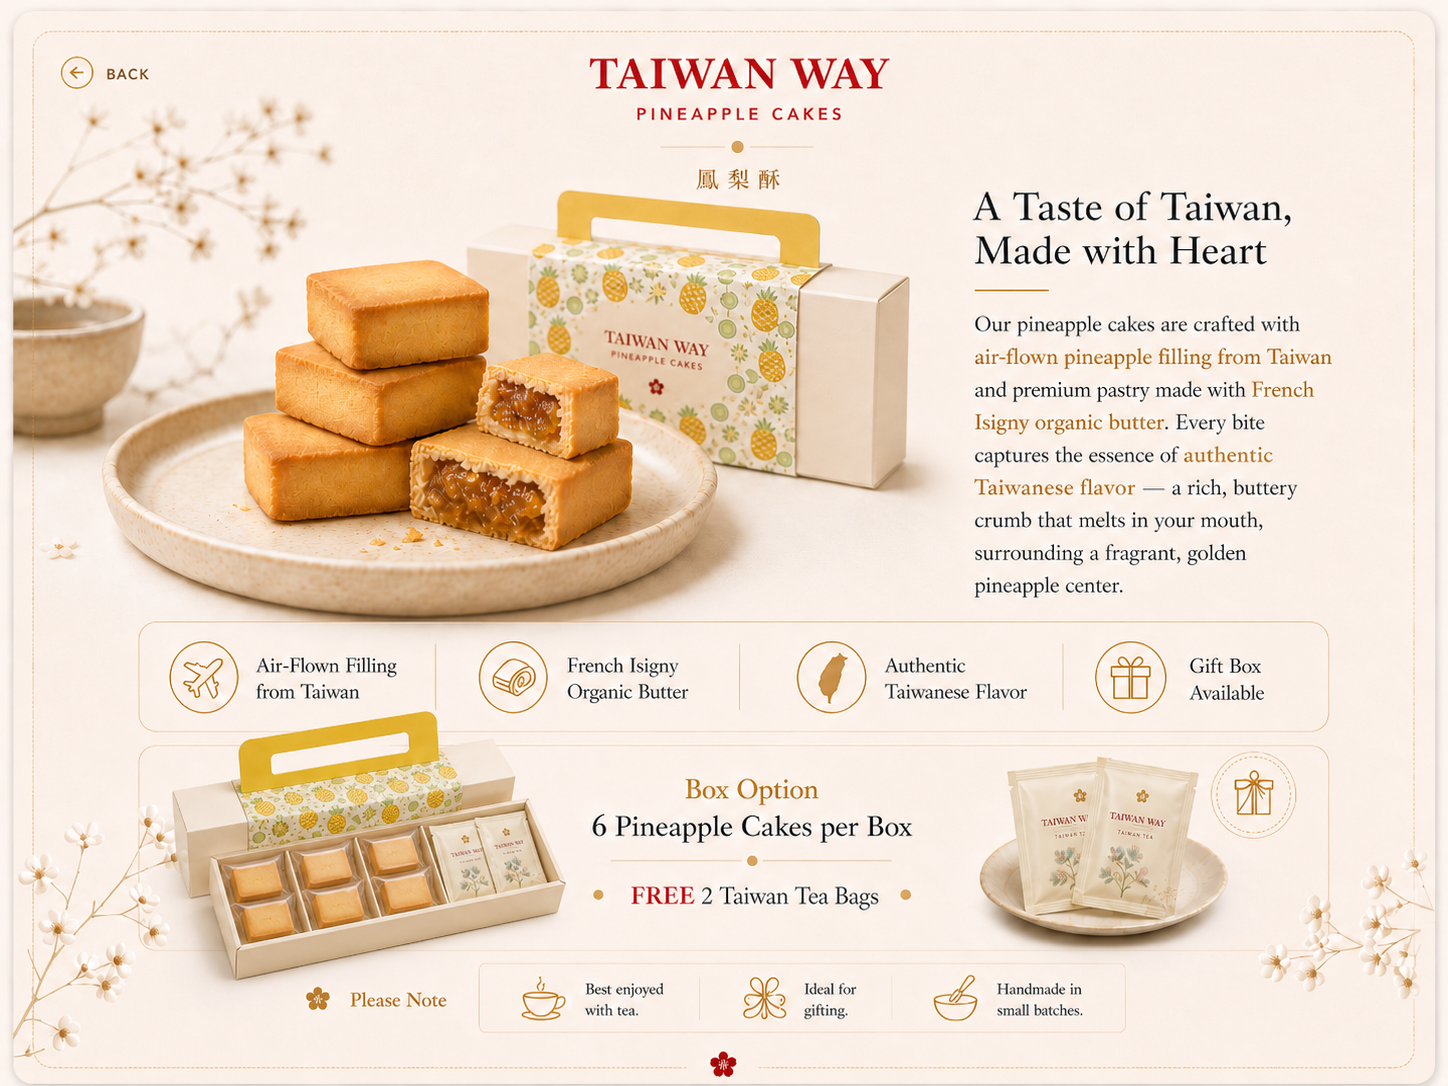
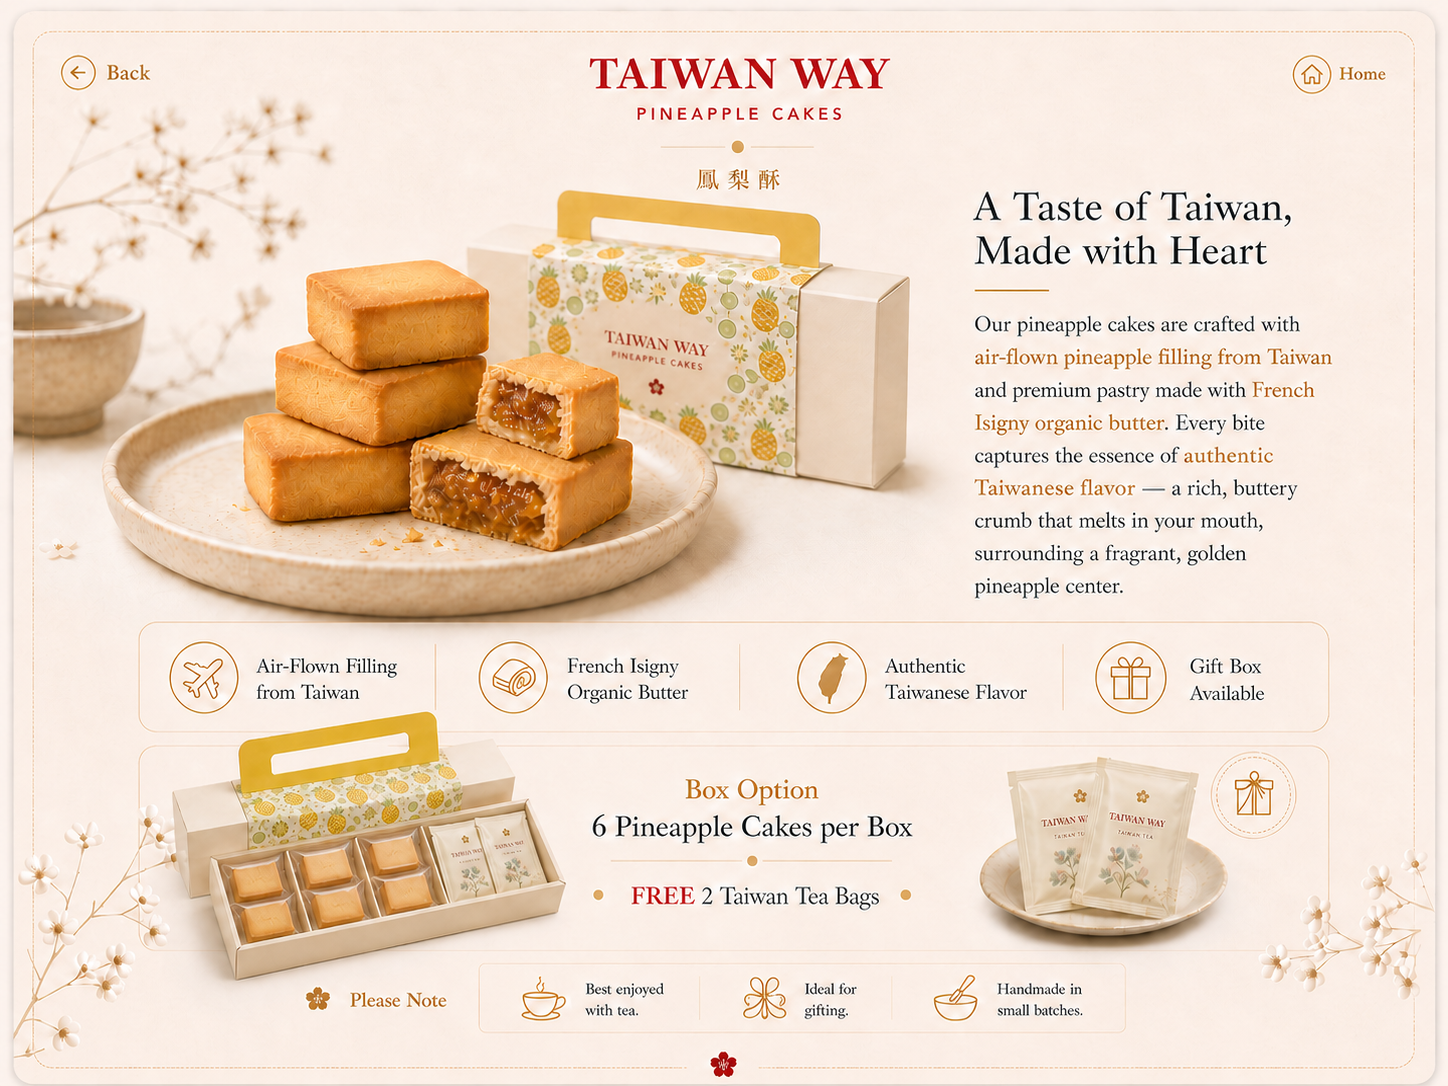
redesign: 改為 4 卡 Hub 架構，新增多個分類與子頁，加入滑動支援
- 首頁改為 Explore Taiwan Way Hub（4 卡：Desserts/Tea & Drinks/Custom Cake/Taiwanese Favorites）
- 新增 Taiwanese Favorites 分類頁 + 4 道菜（滷肉飯/牛肉麵/櫻花蝦油飯/雞肉飯）
- 新增 Tea & Drinks 分類頁 + Bubble Tea 子頁（4 款珍奶）
- Review/Follow 拆成兩頁，分別連 Google Review QR 與 IG QR
- 新版子頁加入 Back/Home 按鈕（圖內已內嵌，HTML 加透明 tap zone）
- 底部 bar 改為 Leave a review / Ask at counter / Follow us
- 加入滑動功能：輪播左右滑切換、同分類內子頁循環滑動

diff --git a/index.html b/index.html
@@ -5,7 +5,7 @@
 <meta name="viewport" content="width=device-width, initial-scale=1.0, maximum-scale=1.0, user-scalable=no">
 <meta name="apple-mobile-web-app-capable" content="yes">
 <meta name="apple-mobile-web-app-status-bar-style" content="black-translucent">
-<title>Taiwan Way Dessert iPad</title>
+<title>Taiwan Way Cafe iPad</title>
 <style>
   * { margin: 0; padding: 0; box-sizing: border-box; }
 
@@ -78,47 +78,36 @@
     transform: scale(0.985);
   }
 
-  #btn-pineapple {
-    left: 4.0%;
-    top: 43.5%;
-    width: 24.6%;
-    height: 18.0%;
-  }
+  /* === Home page tap zones (新ipad 首頁.png) === */
+  #btn-home-desserts        { left: 3.5%;  top: 42.0%; width: 24.0%; height: 17.5%; }
+  #btn-home-tea-drinks      { left: 28.5%; top: 42.0%; width: 24.0%; height: 17.5%; }
+  #btn-home-custom-cake     { left: 3.5%;  top: 60.5%; width: 24.0%; height: 17.5%; }
+  #btn-home-taiwanese-favs  { left: 28.5%; top: 60.5%; width: 24.0%; height: 17.5%; }
+  #btn-home-review          { left: 2.5%;  top: 90.5%; width: 27.0%; height: 7.5%; }
+  #btn-home-follow          { left: 70.0%; top: 90.5%; width: 27.5%; height: 7.5%; }
 
-  #btn-tea {
-    left: 29.4%;
-    top: 43.5%;
-    width: 23.0%;
-    height: 18.0%;
-  }
+  /* === Common: Top-left Back / Top-right Home pill buttons (baked in image) === */
+  .btn-page-back { left: 1.5%; top: 2.5%; width: 12.5%; height: 6.5%; }
+  .btn-page-home { left: 86.0%; top: 2.5%; width: 12.5%; height: 6.5%; }
 
-  #btn-custom-cake {
-    left: 4.0%;
-    top: 62.7%;
-    width: 24.6%;
-    height: 18.5%;
-  }
+  /* === Review / Follow page: Back to Menu pill (bottom center) === */
+  .btn-back-to-menu { left: 28.0%; top: 87.0%; width: 44.0%; height: 11.0%; }
 
-  #btn-review {
-    left: 29.4%;
-    top: 62.7%;
-    width: 23.0%;
-    height: 18.5%;
-  }
+  /* === Taiwanese Favorites category tap zones === */
+  #btn-tf-braised-pork  { left: 3.5%;  top: 38.0%; width: 28.0%; height: 19.5%; }
+  #btn-tf-beef-noodle   { left: 33.0%; top: 38.0%; width: 28.0%; height: 19.5%; }
+  #btn-tf-sakura        { left: 3.5%;  top: 60.0%; width: 28.0%; height: 19.5%; }
+  #btn-tf-chicken       { left: 33.0%; top: 60.0%; width: 28.0%; height: 19.5%; }
+  #btn-tf-review        { left: 2.5%;  top: 90.5%; width: 27.0%; height: 7.5%; }
+  #btn-tf-follow        { left: 70.0%; top: 90.5%; width: 27.5%; height: 7.5%; }
 
-  #btn-cake-flavors-inline {
-    left: 6.5%;
-    top: 85.1%;
-    width: 23.8%;
-    height: 6.2%;
-  }
+  /* === Tea & Drinks category tap zones === */
+  #btn-td-bubble-tea { left: 3.5%;  top: 56.0%; width: 28.0%; height: 26.0%; }
+  #btn-td-hot-tea    { left: 33.0%; top: 56.0%; width: 28.0%; height: 26.0%; }
 
-  #btn-cake-order-inline {
-    left: 32.6%;
-    top: 85.1%;
-    width: 18.8%;
-    height: 6.2%;
-  }
+  /* === Custom Cake inline tap zones (existing) === */
+  #btn-cake-flavors-inline { left: 6.5%;  top: 85.1%; width: 23.8%; height: 6.2%; }
+  #btn-cake-order-inline   { left: 32.6%; top: 85.1%; width: 18.8%; height: 6.2%; }
 
   .back-btn {
     position: absolute;
@@ -222,32 +211,61 @@
 </head>
 <body>
 
+<!-- Home: Explore Taiwan Way Hub -->
 <div class="page active" id="page-home">
   <div class="stage">
-    <img src="dessert 首頁.png?v=20260504-review" alt="Taiwan Way Dessert Welcome">
-    <button class="tap-zone" id="btn-pineapple" onclick="goTo('page-pineapple')" aria-label="Handmade Pineapple Cake"></button>
-    <button class="tap-zone" id="btn-tea" onclick="goTo('page-tea')" aria-label="Taiwan High Mountain Tea"></button>
-    <button class="tap-zone" id="btn-custom-cake" onclick="goTo('page-custom-cake')" aria-label="Custom Cake"></button>
-    <button class="tap-zone" id="btn-review" onclick="goTo('page-review')" aria-label="Review and Follow Us"></button>
+    <img src="新ipad 首頁.png?v=20260511-v2" alt="Explore Taiwan Way">
+    <button class="tap-zone" id="btn-home-desserts" onclick="goTo('page-pineapple')" aria-label="Desserts and Pineapple Cake"></button>
+    <button class="tap-zone" id="btn-home-tea-drinks" onclick="goTo('page-tea-drinks')" aria-label="Tea and Drinks"></button>
+    <button class="tap-zone" id="btn-home-custom-cake" onclick="goTo('page-custom-cake')" aria-label="Custom Cake"></button>
+    <button class="tap-zone" id="btn-home-taiwanese-favs" onclick="goTo('page-taiwanese-favorites')" aria-label="Taiwanese Favorites"></button>
+    <button class="tap-zone" id="btn-home-review" onclick="goTo('page-review')" aria-label="Leave a review"></button>
+    <button class="tap-zone" id="btn-home-follow" onclick="goTo('page-follow')" aria-label="Follow us"></button>
   </div>
 </div>
 
+<!-- Desserts: direct to Pineapple Cake (new style with Back/Home) -->
 <div class="page" id="page-pineapple">
   <div class="stage">
-    <img src="鳳梨酥內頁.png?v=20260504-dessert" alt="Handmade Pineapple Cake">
-    <button class="back-btn" onclick="goTo('page-home')">←</button>
+    <img src="鳳梨酥內頁.png?v=20260511-v2" alt="Handmade Pineapple Cake">
+    <button class="tap-zone btn-page-back" onclick="goTo('page-home')" aria-label="Back"></button>
+    <button class="tap-zone btn-page-home" onclick="goTo('page-home')" aria-label="Home"></button>
     <div class="countdown-bar" id="bar-pineapple"></div>
   </div>
 </div>
 
-<div class="page" id="page-tea">
+<!-- Tea & Drinks category (new style with Back/Home) -->
+<div class="page" id="page-tea-drinks">
   <div class="stage">
-    <img src="高山烏龍內頁.png?v=20260504-dessert" alt="Taiwan High Mountain Tea">
-    <button class="back-btn" onclick="goTo('page-home')">←</button>
-    <div class="countdown-bar" id="bar-tea"></div>
+    <img src="tea drinks.png?v=20260511-v2" alt="Tea and Drinks">
+    <button class="tap-zone" id="btn-td-bubble-tea" onclick="goTo('page-bubble-tea')" aria-label="Bubble Tea"></button>
+    <button class="tap-zone" id="btn-td-hot-tea" onclick="goTo('page-hot-tea')" aria-label="Hot Tea"></button>
+    <button class="tap-zone btn-page-back" onclick="goTo('page-home')" aria-label="Back"></button>
+    <button class="tap-zone btn-page-home" onclick="goTo('page-home')" aria-label="Home"></button>
+    <div class="countdown-bar" id="bar-tea-drinks"></div>
   </div>
 </div>
 
+<!-- Bubble Tea detail (new style with Back/Home) -->
+<div class="page" id="page-bubble-tea">
+  <div class="stage">
+    <img src="珍奶內頁.png?v=20260511-v2" alt="Bubble Tea Varieties">
+    <button class="tap-zone btn-page-back" onclick="goTo('page-tea-drinks')" aria-label="Back"></button>
+    <button class="tap-zone btn-page-home" onclick="goTo('page-home')" aria-label="Home"></button>
+    <div class="countdown-bar" id="bar-bubble-tea"></div>
+  </div>
+</div>
+
+<!-- Hot Tea detail (old style — keep circular back) -->
+<div class="page" id="page-hot-tea">
+  <div class="stage">
+    <img src="高山烏龍內頁.png?v=20260504-dessert" alt="Taiwan High Mountain Tea">
+    <button class="back-btn" onclick="goTo('page-tea-drinks')">←</button>
+    <div class="countdown-bar" id="bar-hot-tea"></div>
+  </div>
+</div>
+
+<!-- Custom Cake hub (old style) -->
 <div class="page" id="page-custom-cake">
   <div class="stage">
     <img src="cake home 橫式.png?v=20260504-cake-home" alt="Custom Cakes">
@@ -258,34 +276,103 @@
   </div>
 </div>
 
-<div class="page" id="page-review">
-  <div class="stage">
-    <img src="review 內頁.png?v=20260504-review" alt="Review and Follow TaiwanWay">
-    <button class="back-btn" onclick="goTo('page-home')">←</button>
-    <div class="countdown-bar" id="bar-review"></div>
-  </div>
-</div>
-
+<!-- Cake Flavors (old style) -->
 <div class="page" id="page-cake-flavors">
   <div class="stage">
     <div class="contain-page">
       <img src="cake_flavors_page.png?v=20260504-dessert" alt="Cake Flavors">
     </div>
-    <button class="back-btn" onclick="goTo('page-home')">←</button>
+    <button class="back-btn" onclick="goTo('page-custom-cake')">←</button>
     <div class="countdown-bar" id="bar-cake-flavors"></div>
   </div>
 </div>
 
+<!-- Cake Order (old style) -->
 <div class="page" id="page-cake-order">
   <div class="stage">
     <div class="contain-page">
       <img src="cake_order_page.png?v=20260504-dessert" alt="How to Order Custom Cake">
     </div>
-    <button class="back-btn" onclick="goTo('page-home')">←</button>
+    <button class="back-btn" onclick="goTo('page-custom-cake')">←</button>
     <div class="countdown-bar" id="bar-cake-order"></div>
   </div>
 </div>
 
+<!-- Taiwanese Favorites category (new style with Back/Home + footer) -->
+<div class="page" id="page-taiwanese-favorites">
+  <div class="stage">
+    <img src="Taiwanese Favorites.png?v=20260511-v2" alt="Taiwanese Favorites">
+    <button class="tap-zone" id="btn-tf-braised-pork" onclick="goTo('page-braised-pork')" aria-label="Braised Pork Rice"></button>
+    <button class="tap-zone" id="btn-tf-beef-noodle" onclick="goTo('page-beef-noodle')" aria-label="Braised Beef Noodle Soup"></button>
+    <button class="tap-zone" id="btn-tf-sakura" onclick="goTo('page-sakura-shrimp')" aria-label="Sakura Shrimp Sticky Rice"></button>
+    <button class="tap-zone" id="btn-tf-chicken" onclick="goTo('page-chicken-rice')" aria-label="Chicken Rice"></button>
+    <button class="tap-zone" id="btn-tf-review" onclick="goTo('page-review')" aria-label="Leave a review"></button>
+    <button class="tap-zone" id="btn-tf-follow" onclick="goTo('page-follow')" aria-label="Follow us"></button>
+    <button class="tap-zone btn-page-back" onclick="goTo('page-home')" aria-label="Back"></button>
+    <button class="tap-zone btn-page-home" onclick="goTo('page-home')" aria-label="Home"></button>
+    <div class="countdown-bar" id="bar-taiwanese-favorites"></div>
+  </div>
+</div>
+
+<!-- Braised Pork Rice (old style) -->
+<div class="page" id="page-braised-pork">
+  <div class="stage">
+    <img src="滷肉飯介紹.png?v=20260504" alt="Braised Pork Rice">
+    <button class="back-btn" onclick="goTo('page-taiwanese-favorites')">←</button>
+    <div class="countdown-bar" id="bar-braised-pork"></div>
+  </div>
+</div>
+
+<!-- Braised Beef Noodle (old style) -->
+<div class="page" id="page-beef-noodle">
+  <div class="stage">
+    <img src="牛肉麵介紹.png?v=20260504" alt="Braised Beef Noodle Soup">
+    <button class="back-btn" onclick="goTo('page-taiwanese-favorites')">←</button>
+    <div class="countdown-bar" id="bar-beef-noodle"></div>
+  </div>
+</div>
+
+<!-- Sakura Shrimp Sticky Rice (old style) -->
+<div class="page" id="page-sakura-shrimp">
+  <div class="stage">
+    <img src="櫻花蝦油飯說明.png?v=20260511" alt="Sakura Shrimp Sticky Rice">
+    <button class="back-btn" onclick="goTo('page-taiwanese-favorites')">←</button>
+    <div class="countdown-bar" id="bar-sakura-shrimp"></div>
+  </div>
+</div>
+
+<!-- Chicken Rice (old style) -->
+<div class="page" id="page-chicken-rice">
+  <div class="stage">
+    <img src="雞肉飯說明.png?v=20260511" alt="Chicken Rice">
+    <button class="back-btn" onclick="goTo('page-taiwanese-favorites')">←</button>
+    <div class="countdown-bar" id="bar-chicken-rice"></div>
+  </div>
+</div>
+
+<!-- Review (new style — Back + Home + Back to Menu) -->
+<div class="page" id="page-review">
+  <div class="stage">
+    <img src="Review.png?v=20260511-v2" alt="Leave a Review">
+    <button class="tap-zone btn-page-back" onclick="goTo('page-home')" aria-label="Back"></button>
+    <button class="tap-zone btn-page-home" onclick="goTo('page-home')" aria-label="Home"></button>
+    <button class="tap-zone btn-back-to-menu" onclick="goTo('page-home')" aria-label="Back to Menu"></button>
+    <div class="countdown-bar" id="bar-review"></div>
+  </div>
+</div>
+
+<!-- Follow Us (new style — Back + Home + Back to Menu) -->
+<div class="page" id="page-follow">
+  <div class="stage">
+    <img src="Follow.png?v=20260511-v2" alt="Follow TaiwanWay">
+    <button class="tap-zone btn-page-back" onclick="goTo('page-home')" aria-label="Back"></button>
+    <button class="tap-zone btn-page-home" onclick="goTo('page-home')" aria-label="Home"></button>
+    <button class="tap-zone btn-back-to-menu" onclick="goTo('page-home')" aria-label="Back to Menu"></button>
+    <div class="countdown-bar" id="bar-follow"></div>
+  </div>
+</div>
+
+<!-- Attract overlay (idle slideshow) -->
 <div class="attract-overlay active" id="attract-overlay" onclick="wakeUp()">
   <div class="attract-panel">
     <div class="tap-pill">Tap to explore</div>
@@ -299,23 +386,29 @@
   const SLIDE_TIME_PHOTO = 5500;
   const SLIDE_TIME_INFO = 11000;
   const SLIDE_TIME_FEATURE = 15000;
-  const V = '?v=20260504-strawberry';
+  const V = '?v=20260511-v2';
   const attractSlides = [
-    { image: 'url("dessert 首頁.png' + V + '")',     duration: SLIDE_TIME_INFO    },
-    { image: 'url("鳳梨酥內頁.png' + V + '")',       duration: SLIDE_TIME_FEATURE },
-    { image: 'url("page-42拷貝.png' + V + '")',     duration: SLIDE_TIME_PHOTO   },
-    { image: 'url("page-43拷貝.png' + V + '")',     duration: SLIDE_TIME_PHOTO   },
-    { image: 'url("page-44拷貝.png' + V + '")',     duration: SLIDE_TIME_PHOTO   },
-    { image: 'url("草莓蛋糕.png' + V + '")',         duration: SLIDE_TIME_PHOTO   },
-    { image: 'url("cake home 橫式.png' + V + '")',  duration: SLIDE_TIME_INFO    },
-    { image: 'url("page-45拷貝.png' + V + '")',     duration: SLIDE_TIME_PHOTO   },
-    { image: 'url("page-46拷貝.png' + V + '")',     duration: SLIDE_TIME_PHOTO   },
-    { image: 'url("page-47拷貝.png' + V + '")',     duration: SLIDE_TIME_PHOTO   },
-    { image: 'url("page-48拷貝.png' + V + '")',     duration: SLIDE_TIME_PHOTO   },
-    { image: 'url("牛肉麵介紹.png' + V + '")',       duration: SLIDE_TIME_FEATURE },
-    { image: 'url("滷肉飯介紹.png' + V + '")',       duration: SLIDE_TIME_FEATURE },
-    { image: 'url("高山烏龍內頁.png' + V + '")',     duration: SLIDE_TIME_INFO    },
-    { image: 'url("review 內頁.png' + V + '")',      duration: SLIDE_TIME_INFO    }
+    { image: 'url("新ipad 首頁.png' + V + '")',         duration: SLIDE_TIME_INFO    },
+    { image: 'url("Taiwanese Favorites.png' + V + '")',  duration: SLIDE_TIME_INFO    },
+    { image: 'url("滷肉飯介紹.png' + V + '")',           duration: SLIDE_TIME_FEATURE },
+    { image: 'url("牛肉麵介紹.png' + V + '")',           duration: SLIDE_TIME_FEATURE },
+    { image: 'url("櫻花蝦油飯說明.png' + V + '")',       duration: SLIDE_TIME_FEATURE },
+    { image: 'url("雞肉飯說明.png' + V + '")',           duration: SLIDE_TIME_FEATURE },
+    { image: 'url("tea drinks.png' + V + '")',           duration: SLIDE_TIME_INFO    },
+    { image: 'url("珍奶內頁.png' + V + '")',             duration: SLIDE_TIME_FEATURE },
+    { image: 'url("高山烏龍內頁.png' + V + '")',         duration: SLIDE_TIME_INFO    },
+    { image: 'url("鳳梨酥內頁.png' + V + '")',           duration: SLIDE_TIME_FEATURE },
+    { image: 'url("草莓蛋糕.png' + V + '")',             duration: SLIDE_TIME_PHOTO   },
+    { image: 'url("cake home 橫式.png' + V + '")',       duration: SLIDE_TIME_INFO    },
+    { image: 'url("page-42拷貝.png' + V + '")',          duration: SLIDE_TIME_PHOTO   },
+    { image: 'url("page-43拷貝.png' + V + '")',          duration: SLIDE_TIME_PHOTO   },
+    { image: 'url("page-44拷貝.png' + V + '")',          duration: SLIDE_TIME_PHOTO   },
+    { image: 'url("page-45拷貝.png' + V + '")',          duration: SLIDE_TIME_PHOTO   },
+    { image: 'url("page-46拷貝.png' + V + '")',          duration: SLIDE_TIME_PHOTO   },
+    { image: 'url("page-47拷貝.png' + V + '")',          duration: SLIDE_TIME_PHOTO   },
+    { image: 'url("page-48拷貝.png' + V + '")',          duration: SLIDE_TIME_PHOTO   },
+    { image: 'url("Review.png' + V + '")',               duration: SLIDE_TIME_INFO    },
+    { image: 'url("Follow.png' + V + '")',               duration: SLIDE_TIME_INFO    }
   ];
 
   (function buildDots() {
@@ -418,6 +511,63 @@
   setSlide(0);
   showAttract();
   idleTimer = setTimeout(showIdle, IDLE_TIME);
+
+  // ===== Swipe support =====
+  function attachSwipe(el, onLeft, onRight) {
+    let startX = 0, startY = 0, startT = 0;
+    el.addEventListener('touchstart', (e) => {
+      const t = e.touches[0];
+      startX = t.clientX;
+      startY = t.clientY;
+      startT = Date.now();
+    }, { passive: true });
+    el.addEventListener('touchend', (e) => {
+      const t = e.changedTouches[0];
+      const dx = t.clientX - startX;
+      const dy = t.clientY - startY;
+      const dt = Date.now() - startT;
+      if (dt > 600) return;          // 太慢不算 swipe
+      if (Math.abs(dx) < 50) return; // 距離太短不算
+      if (Math.abs(dy) > Math.abs(dx)) return; // 垂直滑動不處理
+      if (dx < 0) onLeft(); else onRight();
+    }, { passive: true });
+  }
+
+  // A. 輪播模式滑動：左滑下一張、右滑上一張
+  attachSwipe(
+    document.getElementById('attract-overlay'),
+    () => { activeSlide = (activeSlide + 1) % attractSlides.length; setSlide(activeSlide); scheduleNextSlide(); },
+    () => { activeSlide = (activeSlide - 1 + attractSlides.length) % attractSlides.length; setSlide(activeSlide); scheduleNextSlide(); }
+  );
+
+  // B. 同分類內滑動：循環瀏覽該分類所有子頁
+  const categorySequences = {
+    taiwaneseFavorites: ['page-braised-pork', 'page-beef-noodle', 'page-sakura-shrimp', 'page-chicken-rice'],
+    teaDrinks: ['page-bubble-tea', 'page-hot-tea']
+  };
+
+  function swipeInCategory(currentPageId, direction) {
+    for (const seq of Object.values(categorySequences)) {
+      const idx = seq.indexOf(currentPageId);
+      if (idx !== -1) {
+        const newIdx = direction === 'next'
+          ? (idx + 1) % seq.length
+          : (idx - 1 + seq.length) % seq.length;
+        goTo(seq[newIdx]);
+        return;
+      }
+    }
+  }
+
+  Object.values(categorySequences).flat().forEach(pageId => {
+    const el = document.getElementById(pageId);
+    if (el) {
+      attachSwipe(el,
+        () => swipeInCategory(pageId, 'next'),
+        () => swipeInCategory(pageId, 'prev')
+      );
+    }
+  });
 </script>
 
 </body>
